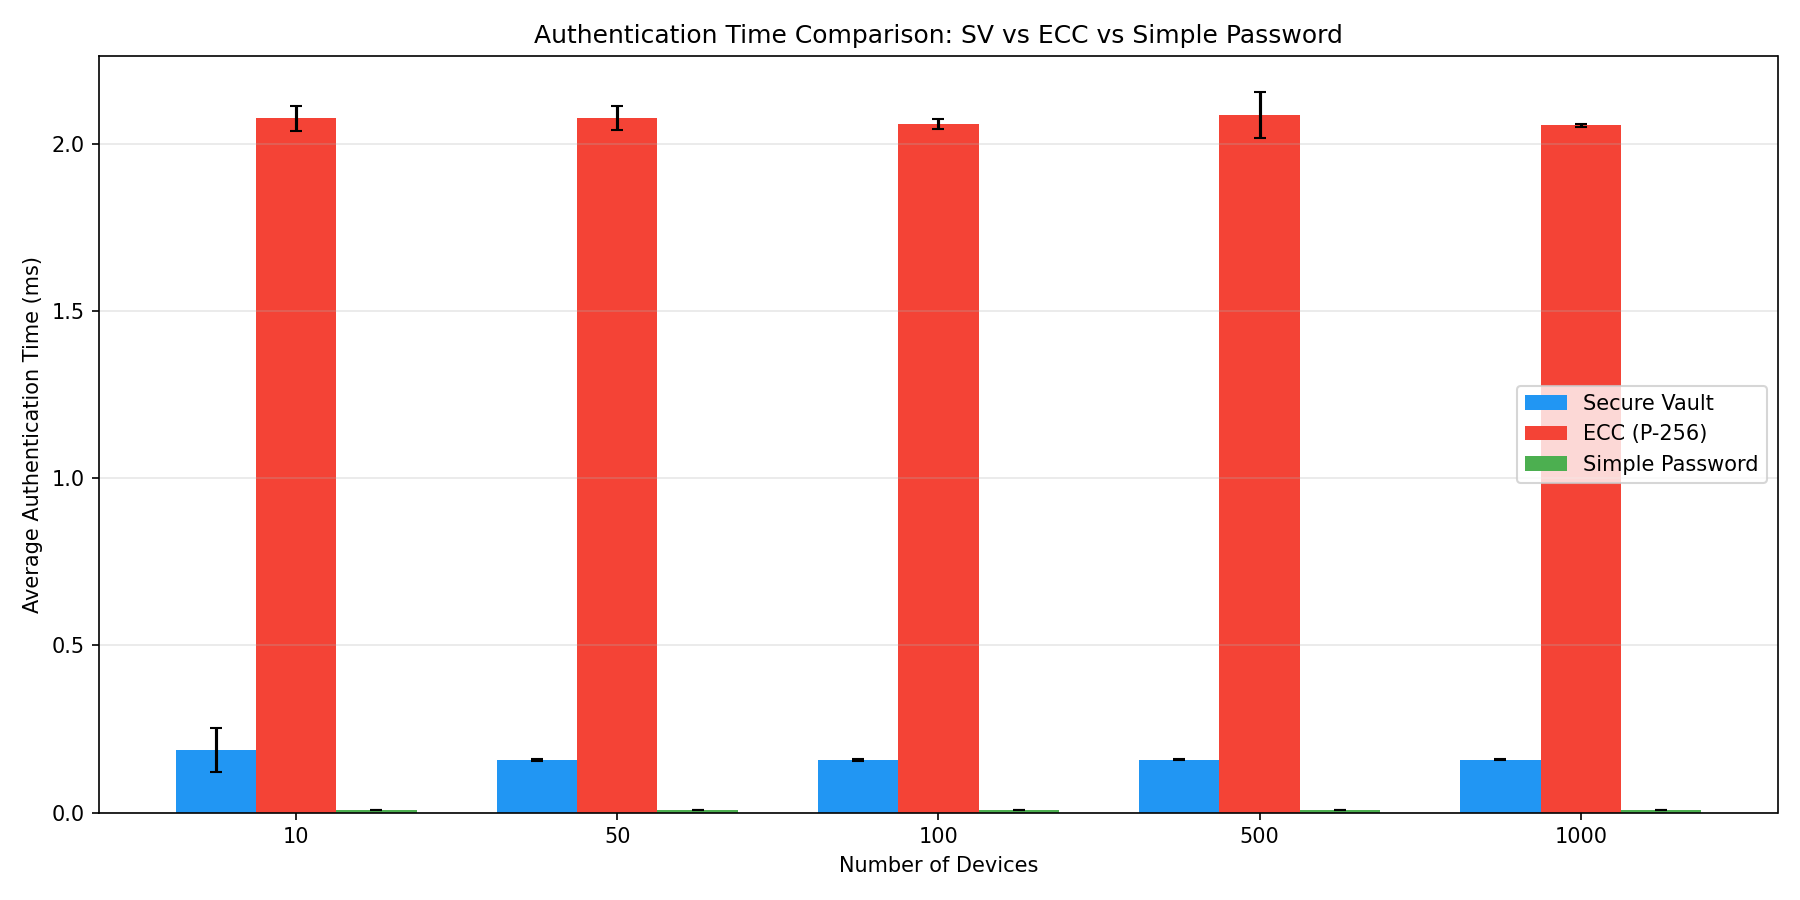
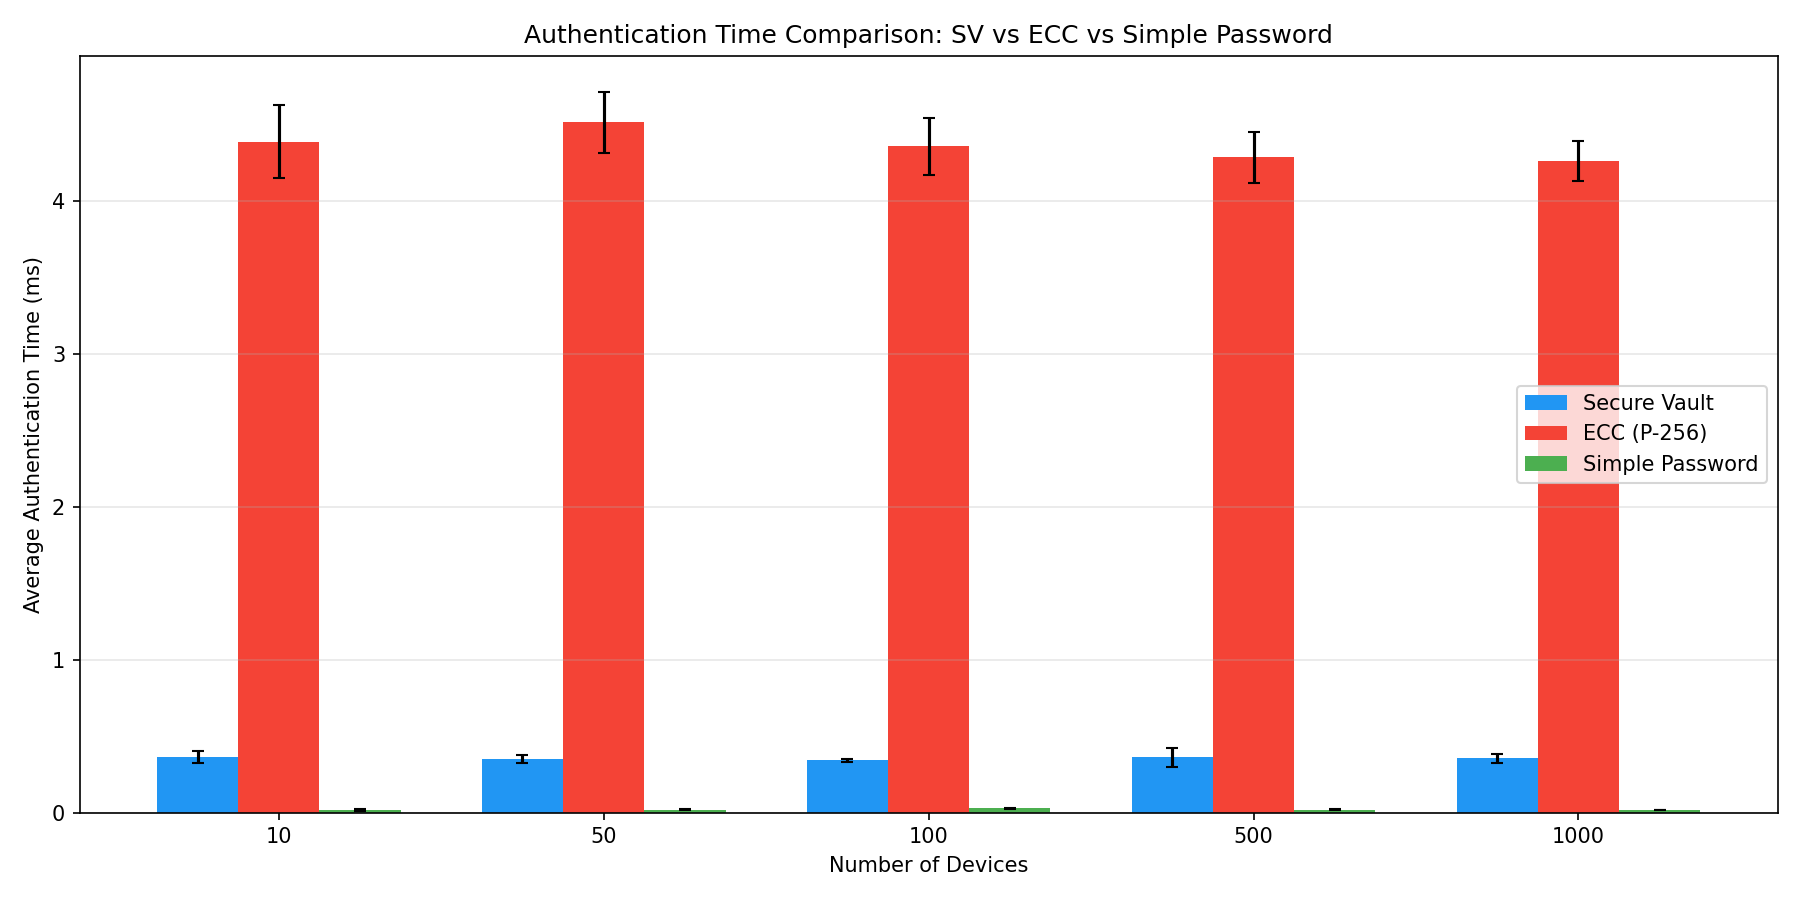
Fix's V2.0

diff --git a/main.py b/main.py
@@ -11,7 +11,9 @@ Usage:
 """
 
 import argparse
+import os
 import sys
+from datetime import datetime
 
 from config import N, M, P
 from entities.vault import SecureVault
@@ -111,6 +113,28 @@ def run_experiments():
     print("\nExperiments completed!")
 
 
+class TeeWriter:
+    """Duplicates writes to both the terminal and a log file."""
+
+    def __init__(self, log_path: str):
+        self._terminal = sys.stdout
+        os.makedirs(os.path.dirname(log_path), exist_ok=True)
+        self._log_file = open(log_path, "w", encoding="utf-8")
+
+    def write(self, message: str) -> int:
+        self._terminal.write(message)
+        self._log_file.write(message)
+        self._log_file.flush()
+        return len(message)
+
+    def flush(self) -> None:
+        self._terminal.flush()
+        self._log_file.flush()
+
+    def close(self) -> None:
+        self._log_file.close()
+
+
 def main():
     parser = argparse.ArgumentParser(
         description="IoT Secure Vault Authentication Simulation"
@@ -123,14 +147,27 @@ def main():
     )
     args = parser.parse_args()
 
-    if args.demo:
-        run_demo()
-    elif args.experiment:
-        run_experiments()
-    else:
-        # Run both
-        run_demo()
-        run_experiments()
+    # Set up logging: duplicate all print output to a .log file
+    timestamp = datetime.now().strftime("%Y%m%d_%H%M%S")
+    log_dir = os.path.join(os.path.dirname(__file__), "experiments", "results")
+    log_path = os.path.join(log_dir, f"simulation_output_{timestamp}.log")
+    tee = TeeWriter(log_path)
+    sys.stdout = tee
+
+    try:
+        if args.demo:
+            run_demo()
+        elif args.experiment:
+            run_experiments()
+        else:
+            # Run both
+            run_demo()
+            run_experiments()
+
+        tee._terminal.write(f"\nLog file saved to {log_path}\n")
+    finally:
+        sys.stdout = tee._terminal
+        tee.close()
 
 
 if __name__ == "__main__":

diff --git a/README.md b/README.md
@@ -1,2 +1,289 @@
-# FinalProject-CPS-IoTSec-IoTAuthentication
-Final Project of CyberPhysical Systems Course @Unipd
+# IoT Secure Vault Authentication
+
+**Cyber-Physical Systems and IoT Security** -- Final Project
+MSc in ICT for Internet and Multimedia -- University of Padova
+
+## Overview
+
+This project is a Python-based simulation of the mutual authentication protocol described in the paper **"Authentication of IoT Device and IoT Server Using Secure Vaults"** by S. Srinivas, A. Kumar, et al.
+
+The protocol uses a **Secure Vault** -- a shared set of symmetric keys between an IoT device and a server -- to perform lightweight mutual authentication via a challenge-response handshake. After each successful session, both sides update the vault using an HMAC-based mechanism, preventing replay and dictionary attacks.
+
+Since this is a PC simulation (not running on constrained hardware like Arduino), **execution time (ms)** is used as a proxy for **energy consumption** to evaluate and compare the performance of three authentication methods:
+
+| Method | Description |
+|--------|-------------|
+| **Secure Vault (SV)** | The paper's protocol -- XOR-based key derivation from vault indices, AES-128 encryption, HMAC vault updates |
+| **ECC (P-256 ECDSA)** | Elliptic Curve Digital Signature Algorithm -- mutual auth via signing/verifying nonces |
+| **Simple Password** | Hash-based challenge-response using SHA-256 with a pre-shared password |
+
+### Authentication Protocol Flow
+
+The Secure Vault protocol follows a 4-message mutual authentication handshake:
+
+![Secure Vault handshake](Figures/01-The%20Secure%20Vault%20protocol%20follows%20a%204-message%20mutual%20authentication%20handshake.png)
+---
+
+## Repository Structure
+
+```
+FinalProject-CPS-IoTSec-IoTAuthentication/
+|
+|-- main.py                     # Entry point: protocol demo and experiment runner
+|-- config.py                   # Global constants (N, M, P, experiment parameters)
+|-- requirements.txt            # Python dependencies
+|-- README.md                   # This file
+|
+|-- entities/                   # Core protocol implementation
+|   |-- __init__.py
+|   |-- crypto_utils.py         # Cryptographic primitives (AES, XOR, HMAC, padding)
+|   |-- vault.py                # SecureVault class (key storage, derivation, update)
+|   |-- device.py               # IoTDevice class (client-side: Steps 1, 3, 5)
+|   |-- server.py               # IoTServer class (server-side: Steps 2, 4)
+|
+|-- experiments/                # Performance comparison experiments
+|   |-- __init__.py
+|   |-- experiments_comparison.py   # SV vs ECC vs Simple Password benchmarks
+|   |-- results/                    # Generated output files
+|       |-- bar_chart_comparison.png
+|       |-- line_chart_scaling.png
+|       |-- bar_chart_log_scale.png
+|       |-- simulation_output_YYYYMMDD_HHMMSS.log
+|
+|-- .gitignore
+```
+
+### Key Files
+
+| File | Description |
+|------|-------------|
+| `config.py` | Vault parameters (`N=16` keys, `M=16` bytes/key, `P=6` keys/challenge), experiment settings (device counts, number of runs), ECC curve selection |
+| `entities/crypto_utils.py` | Low-level crypto: `aes_ecb_encrypt/decrypt` (AES-128-ECB with PKCS7 padding), `xor_bytes`, `xor_multiple_keys`, `compute_hmac` (HMAC-SHA256), `hmac_expand` (iterative HMAC expansion for vault update) |
+| `entities/vault.py` | `SecureVault` class -- `initialize()` generates N random keys, `derive_key_from_indices()` XORs selected keys, `update()` performs HMAC-based vault refresh after each session |
+| `entities/device.py` | `IoTDevice` class -- implements the client side of the handshake (`step1_initiate`, `step3_respond`, `step5_finalize`) |
+| `entities/server.py` | `IoTServer` class -- implements the server side (`step2_challenge`, `step4_verify_and_respond`), manages registered devices and session state |
+| `experiments/experiments_comparison.py` | Runs all three authentication methods, measures per-device timing with `time.perf_counter()`, generates PrettyTable console output and matplotlib plots |
+
+---
+
+## Requirements
+
+- **Python** 3.10 or higher
+- **Operating System**: Windows, macOS, or Linux
+
+### Python Dependencies
+
+| Package | Version | Purpose |
+|---------|---------|---------|
+| `pycryptodome` | >= 3.20.0 | AES-ECB encryption/decryption, ECC key generation, ECDSA signing/verification, SHA-256 hashing |
+| `prettytable` | >= 3.9.0 | Formatted console tables for experiment results |
+| `matplotlib` | >= 3.8.0 | Bar charts, line charts, and log-scale plots for performance comparison |
+
+### Installation
+
+```bash
+# Clone the repository
+git clone https://github.com/<your-username>/FinalProject-CPS-IoTSec-IoTAuthentication.git
+cd FinalProject-CPS-IoTSec-IoTAuthentication
+
+# Install dependencies
+pip install -r requirements.txt
+```
+
+---
+
+## How to Run
+
+### Run Everything (Demo + Experiments)
+
+```bash
+python main.py
+```
+
+This runs the protocol demo first, then the full experiment suite.
+
+### Run Protocol Demo Only
+
+```bash
+python main.py --demo
+```
+
+Executes 3 consecutive authentication sessions between a single device and server, printing each step of the handshake with intermediate values (challenge indices, nonces, ciphertexts, session keys). Verifies that:
+- Both sides derive the same session key
+- Vaults remain synchronized across multiple sessions
+- Mutual authentication succeeds (r1 and r2 validated)
+
+### Run Experiments Only
+
+```bash
+python main.py --experiment
+```
+
+Benchmarks all three authentication methods (SV, ECC, Simple Password) across 5 device counts (10, 50, 100, 500, 1000 devices), averaged over 5 runs each. Outputs:
+- Console tables with mean, standard deviation, min, and max timings
+- Three plots saved to `experiments/results/`
+
+---
+
+## Simulation Output
+
+### Demo Output
+
+The demo prints a step-by-step trace of the authentication handshake:
+
+```
+============================================================
+  IoT Secure Vault Authentication - Protocol Demo
+============================================================
+
+Parameters: N=16 keys, M=16 bytes/key, P=6 keys/challenge
+
+[Setup] Initializing shared vault...
+  Vault: 16 keys of 16 bytes each
+  Device ID: Device_001
+
+--------------------------------------------------
+  Session 1/3
+--------------------------------------------------
+
+  [Step 1] Device -> Server: M1
+    Device ID:  Device_001
+    Session ID: 6b1621365e157a3d
+
+  [Step 2] Server -> Device: M2
+    Challenge C1: [1, 13, 3, 15, 8, 5]
+    Nonce r1:     e92819c13189ef2a2885c349ac57961c...
+
+  [Step 3] Device -> Server: M3
+    Ciphertext:   964c55198f07e6037a29f2dbb454242f...
+    (encrypted with k1 derived from C1)
+
+  [Step 4] Server -> Device: M4
+    Ciphertext:   babb89d2190b2913c22a8c1e75166b6b...
+    Server verified r1 - device is authenticated!
+
+  [Step 5] Finalization
+    Device verified r2 - server is authenticated!
+    Session Key (device): 37adb3871d3881d32d22ae773f1591d4...
+    Session Key (server): 37adb3871d3881d32d22ae773f1591d4...
+    Keys match: True
+    Vault updated for next session.
+```
+
+### Experiment Console Output
+
+The experiment suite produces two tables:
+
+**Summary Table** -- average authentication time per device (ms) with standard deviation:
+
+```
++-----------+-------------------+-------------------+-------------------+
+| # Devices |    Secure Vault   |    ECC (P-256)    |  Simple Password  |
++-----------+-------------------+-------------------+-------------------+
+|     10    | 0.1867 +/- 0.0656 | 2.0768 +/- 0.0371 | 0.0085 +/- 0.0003 |
+|     50    | 0.1585 +/- 0.0031 | 2.0776 +/- 0.0369 | 0.0084 +/- 0.0004 |
+|    100    | 0.1574 +/- 0.0036 | 2.0589 +/- 0.0139 | 0.0081 +/- 0.0000 |
+|    500    | 0.1580 +/- 0.0013 | 2.0862 +/- 0.0686 | 0.0081 +/- 0.0001 |
+|    1000   | 0.1586 +/- 0.0011 | 2.0550 +/- 0.0041 | 0.0081 +/- 0.0000 |
++-----------+-------------------+-------------------+-------------------+
+```
+
+**Detailed Breakdown Table** -- per method with min/max:
+
+```
++-----------+-----------------+-----------+---------+----------+----------+
+| # Devices |      Method     | Mean (ms) | Std Dev | Min (ms) | Max (ms) |
++-----------+-----------------+-----------+---------+----------+----------+
+|     10    |   Secure Vault  |   0.1867  |  0.0656 |  0.1527  |  0.3034  |
+|     10    |   ECC (P-256)   |   2.0768  |  0.0371 |  2.0500  |  2.1396  |
+|     10    | Simple Password |   0.0085  |  0.0003 |  0.0083  |  0.0091  |
+|    ...    |       ...       |    ...    |   ...   |   ...    |   ...    |
++-----------+-----------------+-----------+---------+----------+----------+
+```
+
+### Generated Plots
+
+All plots are saved to `experiments/results/`:
+
+| File | Description |
+|------|-------------|
+| `bar_chart_comparison.png` | Grouped bar chart comparing SV, ECC, and Simple Password at each device count (similar to Figure 3 in the reference paper) |
+| `line_chart_scaling.png` | Line chart showing how authentication time scales with number of devices |
+| `bar_chart_log_scale.png` | Same bar chart with logarithmic Y-axis, useful since ECC is ~13x slower than SV |
+
+### Log File
+
+Every run automatically saves a complete copy of all terminal output to a timestamped `.log` file in `experiments/results/`:
+
+```
+experiments/results/simulation_output_20260219_143025.log
+```
+
+The log file contains the exact same content shown in the terminal (demo trace, experiment progress, summary tables, plot save paths). This allows you to review past runs without re-executing the simulation.
+
+---
+
+## Configuration
+
+All parameters are defined in `config.py` and can be adjusted:
+
+```python
+# Vault parameters
+N = 16          # Number of keys in the vault (paper uses 128)
+M = 16          # Key size in bytes (16 = AES-128)
+P = 6           # Number of keys selected per challenge
+
+# Experiment parameters
+NUM_DEVICES_LIST = [10, 50, 100, 500, 1000]
+NUM_RUNS = 5    # Runs to average per data point
+
+# ECC parameters
+ECC_CURVE = "P-256"
+
+# Simple password parameters
+PASSWORD_LENGTH = 16  # bytes
+```
+
+### Why N=16, M=16, P=6?
+
+| Parameter | Value | Justification |
+| --------- | ----- | ------------- |
+| **N** (vault size) | 16 | The reference paper uses N=128, but since this is a PC-based simulation (not constrained hardware), N=16 is sufficient to demonstrate the protocol correctly while keeping execution time reasonable. With N=16 and P=6, the number of possible challenges is C(16, 6) = **8,008**, which still provides adequate entropy for the challenge space. |
+| **M** (key size) | 16 bytes | 16 bytes = 128 bits, matching the **AES-128** standard key length. This is the widely accepted minimum for secure symmetric encryption and is consistent with the paper's use of AES-based operations. |
+| **P** (keys per challenge) | 6 | Balances security against computational cost. Selecting 6 out of 16 keys per challenge yields 8,008 distinct challenges -- enough to prevent brute-force enumeration while keeping the XOR-based key derivation lightweight. |
+
+### Parameter Constraints
+
+Each parameter has hard requirements imposed by the implementation:
+
+| Parameter | Valid Range | Constraint Reason |
+| --------- | ----------- | ----------------- |
+| **N** | 2 -- 255 | Must be > P (otherwise `random.sample(range(N), P)` fails). Upper bound of 255 because challenge indices are encoded as single bytes via `struct.pack("B", ...)` in the M3 message. |
+| **M** | 16 or 32 | Must be a valid AES key size. `AES.new(key, AES.MODE_ECB)` only accepts 16 bytes (AES-128) or 32 bytes (AES-256). M is used for vault keys, nonces (r1, r2), partial session keys (t1, t2), and derived keys (k1, k2). |
+| **P** | 2 -- N-1 | Must be >= 2 (XORing fewer than 2 keys provides no meaningful derivation). Must be < N (cannot select more indices than exist in the vault). |
+
+### Impact of Changing Parameters
+
+| Change | Security | Memory | Performance |
+| ------ | -------- | ------ | ----------- |
+| **Increase N** (e.g. 16 -> 128) | Larger challenge space C(N, P) -- harder to brute-force which keys were selected | More memory per vault: N x M bytes stored on both device and server | Slower vault update -- HMAC expansion must generate N x M bytes after each session |
+| **Increase M** (16 -> 32) | Switches from AES-128 to AES-256 -- stronger encryption with a larger security margin | Doubles vault memory (N x 32 instead of N x 16). Nonces and session keys also double in size | Slightly slower AES operations and larger encrypted payloads in M3/M4 messages |
+| **Increase P** (e.g. 6 -> 12) | Larger challenge space C(N, P) and more keys XORed together -- harder to recover individual vault keys | No significant memory impact | More XOR operations per key derivation. Larger M3 payload (C2 indices are sent encrypted) |
+| **Decrease P** (e.g. 6 -> 2) | Much smaller challenge space C(N, 2) -- easier to enumerate. Derived key depends on fewer vault keys | No significant memory impact | Faster key derivation (fewer XOR operations) |
+
+---
+
+## References
+
+1. **S. Srinivas, A. Kumar, et al.** -- *"Authentication of IoT Device and IoT Server Using Secure Vaults"*, IEEE Internet of Things Journal. The reference paper that this project implements and evaluates. [(PDF included in repository)](Authentication_of_IoT_Device_and_IoT_Server_Using_Secure_Vaults.pdf)
+
+2. **PyCryptodome** -- Python cryptographic library used for AES-128-ECB encryption/decryption, ECC P-256 key generation, ECDSA digital signatures, and SHA-256 hashing. https://www.pycryptodome.org/
+
+3. **Python `hmac` module** -- Standard library module used for HMAC-SHA256 computation in vault update operations. https://docs.python.org/3/library/hmac.html
+
+4. **Python `hashlib` module** -- Standard library module providing SHA-256 hash function. https://docs.python.org/3/library/hashlib.html
+
+5. **PrettyTable** -- Python library for formatted ASCII table output. https://github.com/jazzband/prettytable
+
+---
+
